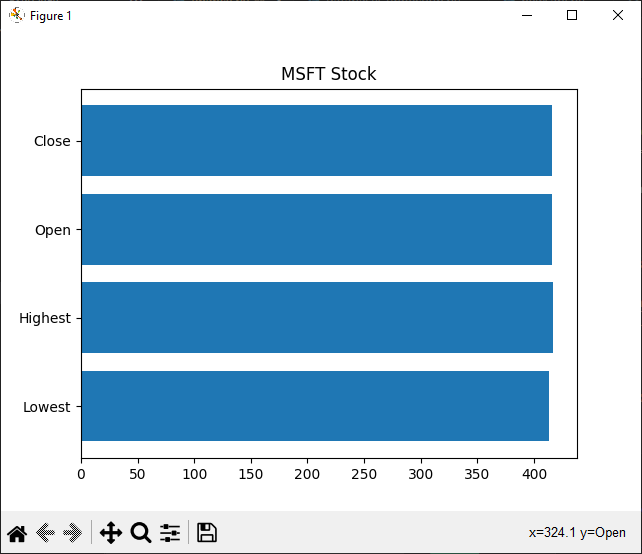
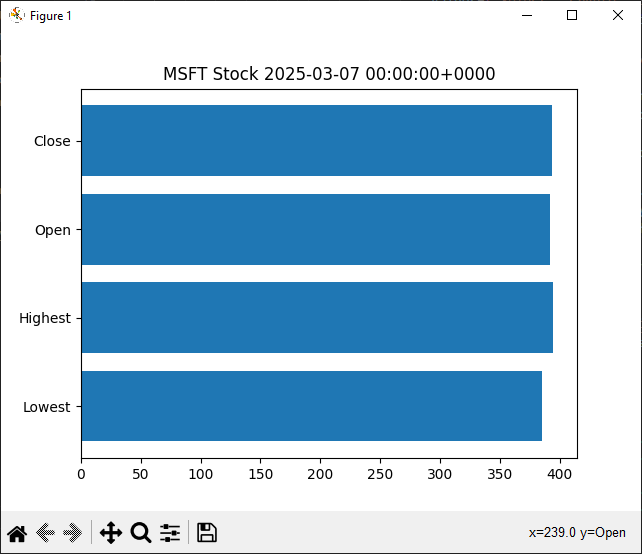
History data feature added

diff --git a/finance.py b/finance.py
@@ -36,7 +36,7 @@ class App(ctk.CTk,tk.Menu):
     def __init__(self, *args, **kwargs):
         super().__init__(*args, **kwargs)
         self.font = ctk.CTkFont(family="Times", size=14)
-        self.words=['Crypto','Stocks','Precious metals','Commodities']
+        self.words=['Crypto','Stocks','Precious metals','Commodities','History']
         self.title("Finance App")
         self.menubar=tk.Menu(self)
         self.config(menu=self.menubar)
@@ -72,7 +72,7 @@ class App(ctk.CTk,tk.Menu):
         
         #pudotusvalikko
         self.optMenu = ctk.CTkOptionMenu(self,
-                                        values=['Select',"Crypto","Stocks",'Commodities','Precious metals','Business news'],command=self.optionmenu_callback,width=200)
+                                        values=['Select',"Crypto","Stocks",'Commodities','Precious metals','History'],command=self.optionmenu_callback,width=200)
         self.optMenu.grid(row=3, column=1, pady=10,columnspan=1, sticky="w")
 
         self.codeEntry = ctk.CTkEntry(self,placeholder_text="crypto/stock code",textvariable=self.inputField,validate="focusout", validatecommand=self.showInput)
@@ -80,7 +80,7 @@ class App(ctk.CTk,tk.Menu):
         self.earnings=ctk.CTkCheckBox(self,text="Show earnings?", onvalue="on", offvalue="off", variable=self.earningsSV)
         self.newsAboutComp=ctk.CTkCheckBox(self,text="News?",command=lambda:self.news.companyNews(self.codeEntry.get(),self.textbox))
         
-        self.createStockBars=ctk.CTkCheckBox(self,text="Bars",command=lambda:self.ms.showEod(self.codeEntry.get()))
+        self.createStockBars=ctk.CTkCheckBox(self,text="EOD data",command=lambda:self.ms.showEod(self.codeEntry.get()))
 
         self.getBtn=ctk.CTkButton(self,text="Get data",command=self.selectMethods,width=200)
         self.getBtn.grid(row=7,column=1,columnspan=3,sticky="w",pady=10)
@@ -184,8 +184,19 @@ class App(ctk.CTk,tk.Menu):
                 self.cryptoCsv.grid(row=6,column=1,sticky="E")
             
             elif self.choice=="Commodities":
+                
                 self.codeEntry.grid_forget()
-                self.createCommodity()    
+                self.createCommodity()
+
+            elif self.choice=="History":
+                self.codeEntry.grid(row=5, column=1,sticky="W")
+                self.historyCB=ctk.CTkCheckBox(self,text="Get history",command=lambda:self.ms.historicalData(self.codeEntry.get(),self.textbox,self.fromDate.get(),self.toDate.get()))
+                self.historyCB.grid(row=5,column=1,sticky="E")
+                self.fromDate=ctk.CTkEntry(self,placeholder_text="FROM (YYYY-MM-DD)")
+                self.fromDate.grid(row=6,column=1,sticky="W")
+                self.toDate=ctk.CTkEntry(self,placeholder_text="TO (YYYY-MM-DD)")
+                self.toDate.grid(row=6,column=1,sticky="E")
+                self.getBtn.grid_forget()
         else:
             #piilottaa gridit
             self.codeEntry.grid_forget()

diff --git a/marketStack.py b/marketStack.py
@@ -12,15 +12,18 @@ class MarketStack():
         self.values=[]
 
     
-     def historicalDividends(self):
-         api_url=f"http://api.marketstack.com/v2/eod?access_key={msApk}&symbols=AAPL&date_from = 2025-02-27& date_to = 2025-03-09"
+     def historicalData(self,ticker,tbox,fromDate,toDate):
+         api_url=f"http://api.marketstack.com/v2/eod?access_key={msApk}&symbols={ticker}&date_from={fromDate}&date_to={toDate}"
          response=requests.get(api_url)
-         print(response.json())
+         respDict=json.loads(response.text)
+         for r in respDict: 
+            tbox.insert("end",respDict[r])
+            tbox.insert("end","\n")
 
      def showEod(self,stockname):
          labels=['Lowest','Highest','Open','Close']
          
-         api_url=f'http://api.marketstack.com/v2/eod?access_key={msApk}&symbols={stockname}'
+         api_url=f'http://api.marketstack.com/v2/eod/latest?access_key={msApk}&symbols={stockname}'
          response=requests.get(api_url)
          data=json.loads(response.text)
          #data hakasuluissa json-tuloksen taulukon nimi low ja high ovat avain-arvo pareja
@@ -30,7 +33,9 @@ class MarketStack():
              openVal=d['open']
              close=d['close']
              name=d['symbol']
-         nameStr=name+' Stock'
+             dtime=d['date']
+             dtimerep=dtime.replace("T"," ")
+         nameStr=name+' Stock '+dtimerep
          self.values.append(low)
          self.values.append(high)
          self.values.append(openVal)
@@ -39,6 +44,10 @@ class MarketStack():
          plt.title(nameStr)
          plt.barh(labels,self.values)
          plt.show()
+
+     
+       
+
         
          
       

diff --git a/README.md b/README.md
@@ -97,3 +97,10 @@ Another example where the user has retrieved Microsoft stock data (opening price
 
 ![alt text](images/eodData.png)
 
+HISTORICAL STOCK DATA
+
+The user can search for historical data for the stocks of their choice. The application has input fields for the stock's trading ID and the dates between which data is to be searched. The values entered by the user are passed to the MarketStack API, which returns historical data in JSON format as a response.
+
+Example image of a user searching for historical data on Microsoft stock between January 7th and January 10th.
+
+![alt text](images/msftHistory.png)
